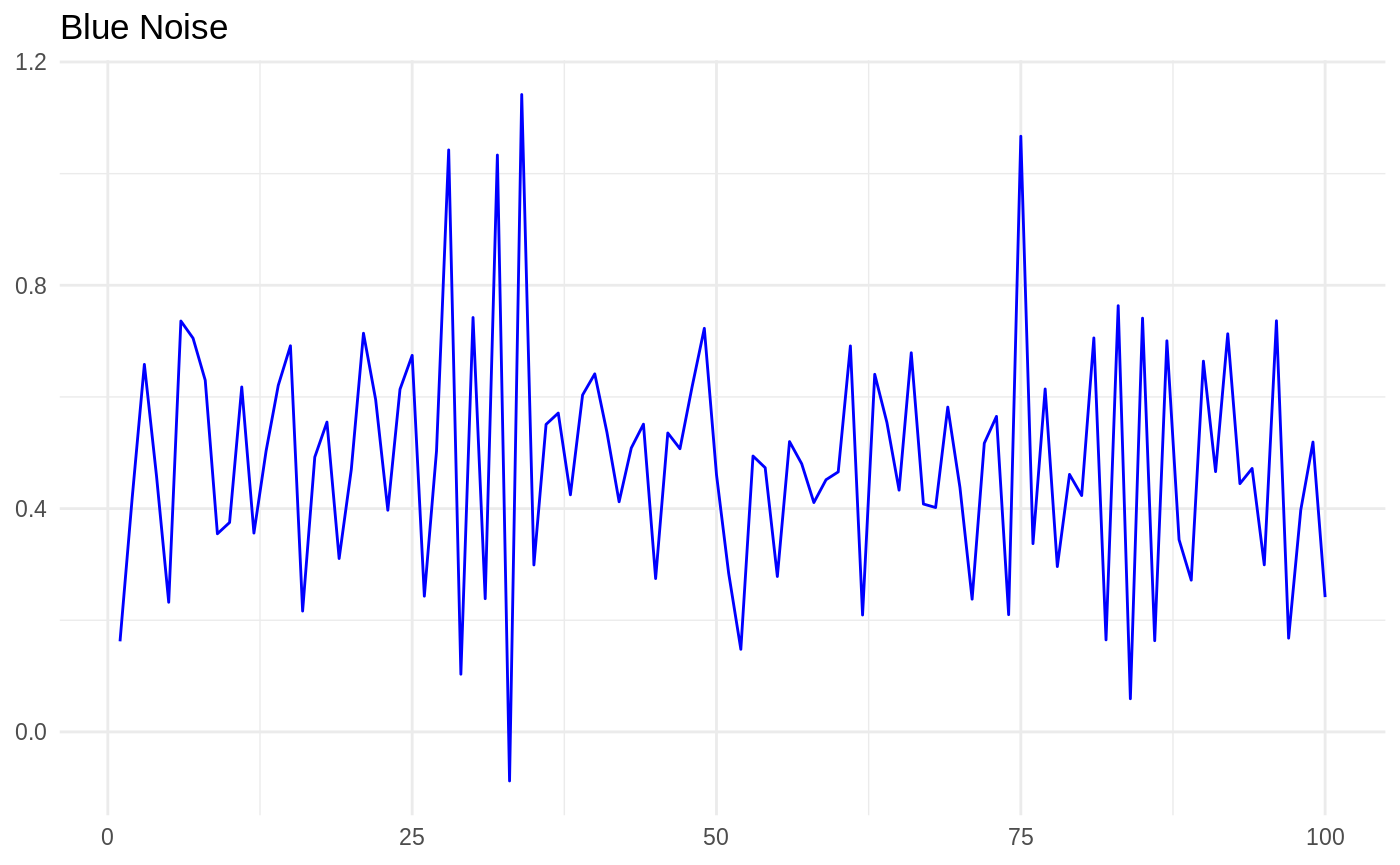
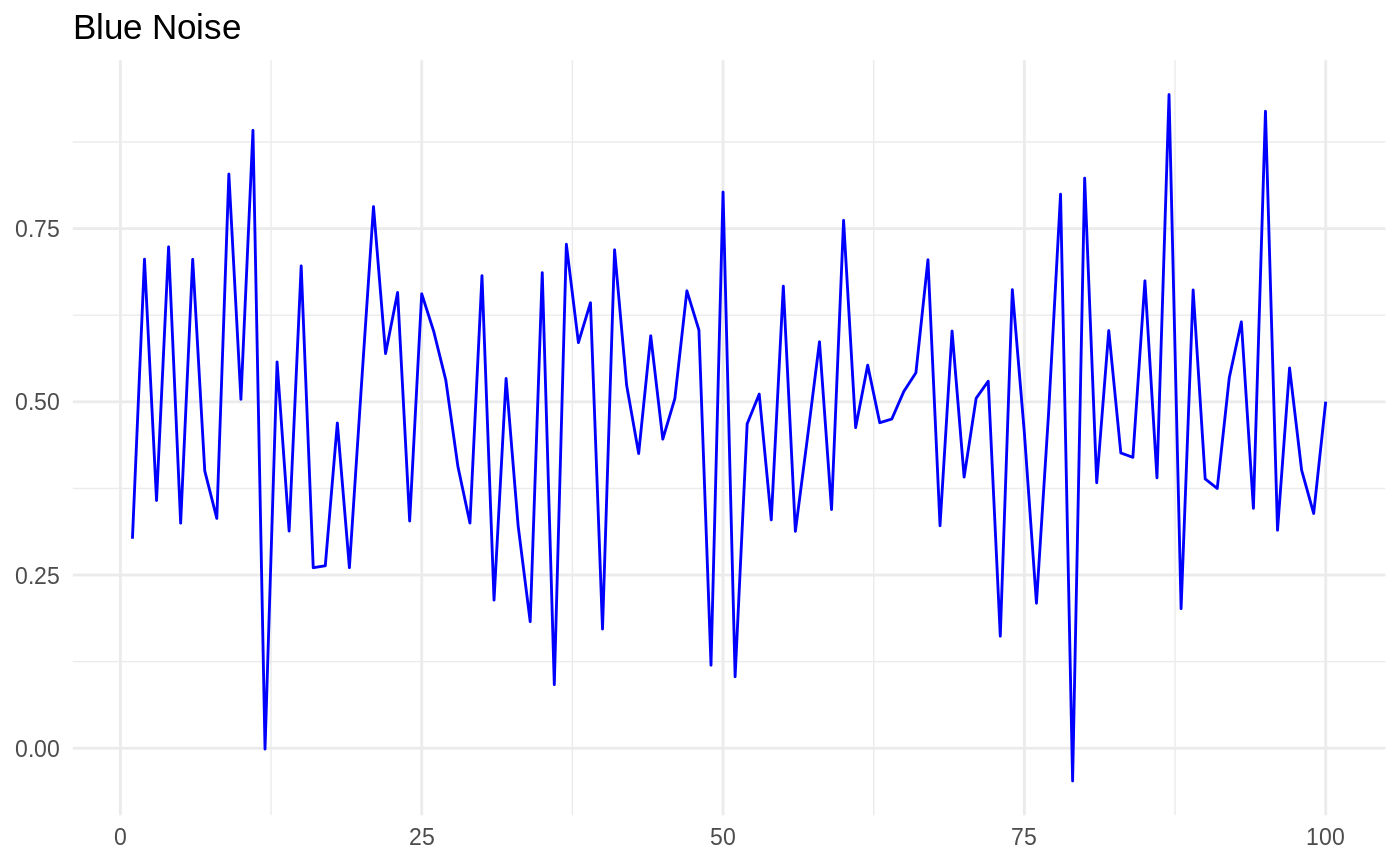
Deploy japilo/colorednoise to github.com/japilo/colorednoise.git:gh-pages

diff --git a/articles/noise.html b/articles/noise.html
@@ -111,12 +111,12 @@
 <p>To show you how you can use this package to simulate and analyze colored noise, I will present a problem for us to solve. Let’s say we want to find out whether our estimates of temporal autocorrelation are biased when the standard deviation of the colored noise is high. First, let’s use the <code>raw_noise</code> function to generate some colored noise with high variance.</p>
 <div class="sourceCode" id="cb1"><pre class="sourceCode r"><code class="sourceCode r"><a class="sourceLine" id="cb1-1" data-line-number="1">red &lt;-<span class="st"> </span><span class="kw">colored_noise</span>(<span class="dt">timesteps =</span> <span class="dv">100</span>, <span class="dt">mean =</span> <span class="fl">0.3</span>, <span class="dt">sd =</span> <span class="fl">1.2</span>, <span class="dt">phi =</span> <span class="fl">0.5</span>)</a>
 <a class="sourceLine" id="cb1-2" data-line-number="2">red[<span class="dv">1</span><span class="op">:</span><span class="dv">10</span>]</a>
-<a class="sourceLine" id="cb1-3" data-line-number="3"><span class="co">#&gt;  [1]  0.03239017  0.97023060 -0.10787798 -0.50056141 -1.50598835</span></a>
-<a class="sourceLine" id="cb1-4" data-line-number="4"><span class="co">#&gt;  [6] -2.09144653 -2.14276184  0.01233472  0.61005662  0.49265119</span></a>
+<a class="sourceLine" id="cb1-3" data-line-number="3"><span class="co">#&gt;  [1]  1.70362401  2.34694974  0.43751466  1.04745676  0.79755190</span></a>
+<a class="sourceLine" id="cb1-4" data-line-number="4"><span class="co">#&gt;  [6]  1.53525902  2.83876411 -0.08585461 -1.34069358  0.77593439</span></a>
 <a class="sourceLine" id="cb1-5" data-line-number="5">blue &lt;-<span class="st"> </span><span class="kw">colored_noise</span>(<span class="dt">timesteps =</span> <span class="dv">100</span>, <span class="dt">mean =</span> <span class="fl">0.3</span>, <span class="dt">sd =</span> <span class="fl">1.2</span>, <span class="dt">phi =</span> <span class="fl">-0.5</span>)</a>
 <a class="sourceLine" id="cb1-6" data-line-number="6">blue[<span class="dv">1</span><span class="op">:</span><span class="dv">10</span>]</a>
-<a class="sourceLine" id="cb1-7" data-line-number="7"><span class="co">#&gt;  [1]  0.52984726 -1.57399398  2.43210790 -0.98215057 -1.08602861</span></a>
-<a class="sourceLine" id="cb1-8" data-line-number="8"><span class="co">#&gt;  [6]  1.93422910 -0.13116741 -0.69285541  2.57450955  0.09079951</span></a>
+<a class="sourceLine" id="cb1-7" data-line-number="7"><span class="co">#&gt;  [1]  0.9431504  1.2805295  0.6790968 -0.3431887  0.3299262  1.6379626</span></a>
+<a class="sourceLine" id="cb1-8" data-line-number="8"><span class="co">#&gt;  [7]  1.0859915  0.2894159 -0.3926446  1.8642073</span></a>
 <a class="sourceLine" id="cb1-9" data-line-number="9"><span class="kw">ggplot</span>(<span class="dt">data =</span> <span class="ot">NULL</span>, <span class="kw">aes</span>(<span class="dt">x =</span> <span class="kw"><a href="https://rdrr.io/r/base/c.html">c</a></span>(<span class="dv">1</span><span class="op">:</span><span class="dv">100</span>), <span class="dt">y =</span> blue)) <span class="op">+</span><span class="st"> </span><span class="kw">geom_line</span>(<span class="dt">color=</span><span class="st">"blue"</span>) <span class="op">+</span><span class="st"> </span><span class="kw">theme_minimal</span>() <span class="op">+</span><span class="st"> </span><span class="kw">theme</span>(<span class="dt">axis.title =</span> <span class="kw">element_blank</span>()) <span class="op">+</span><span class="st"> </span><span class="kw">ggtitle</span>(<span class="st">"Blue Noise"</span>)</a></code></pre></div>
 <p><img src="noise_files/figure-html/generate%20noise-1.png" width="700"></p>
 <div class="sourceCode" id="cb2"><pre class="sourceCode r"><code class="sourceCode r"><a class="sourceLine" id="cb2-1" data-line-number="1"><span class="kw">ggplot</span>(<span class="dt">data =</span> <span class="ot">NULL</span>, <span class="kw">aes</span>(<span class="dt">x =</span> <span class="kw"><a href="https://rdrr.io/r/base/c.html">c</a></span>(<span class="dv">1</span><span class="op">:</span><span class="dv">100</span>), <span class="dt">y =</span> red)) <span class="op">+</span><span class="st"> </span><span class="kw">geom_line</span>(<span class="dt">color=</span><span class="st">"red"</span>) <span class="op">+</span><span class="st"> </span><span class="kw">theme_minimal</span>() <span class="op">+</span><span class="st"> </span><span class="kw">theme</span>(<span class="dt">axis.title =</span> <span class="kw">element_blank</span>()) <span class="op">+</span><span class="st"> </span><span class="kw">ggtitle</span>(<span class="st">"Red Noise"</span>)</a></code></pre></div>
@@ -124,22 +124,22 @@
 <p>The red noise and blue noise look the way they should. Now let’s estimate the mean, SD, and autocorrelation of these two sets of random numbers to see how well they match the parameters we used to generate them.</p>
 <div class="sourceCode" id="cb3"><pre class="sourceCode r"><code class="sourceCode r"><a class="sourceLine" id="cb3-1" data-line-number="1"><span class="kw">invoke_map</span>(<span class="kw"><a href="https://rdrr.io/r/base/list.html">list</a></span>(mean, sd, autocorrelation), <span class="kw"><a href="https://rdrr.io/r/base/rep.html">rep</a></span>(<span class="kw"><a href="https://rdrr.io/r/base/list.html">list</a></span>(<span class="kw"><a href="https://rdrr.io/r/base/list.html">list</a></span>(red)), <span class="dv">3</span>))</a>
 <a class="sourceLine" id="cb3-2" data-line-number="2"><span class="co">#&gt; [[1]]</span></a>
-<a class="sourceLine" id="cb3-3" data-line-number="3"><span class="co">#&gt; [1] 0.07238435</span></a>
+<a class="sourceLine" id="cb3-3" data-line-number="3"><span class="co">#&gt; [1] 0.6629121</span></a>
 <a class="sourceLine" id="cb3-4" data-line-number="4"><span class="co">#&gt; </span></a>
 <a class="sourceLine" id="cb3-5" data-line-number="5"><span class="co">#&gt; [[2]]</span></a>
-<a class="sourceLine" id="cb3-6" data-line-number="6"><span class="co">#&gt; [1] 1.112</span></a>
+<a class="sourceLine" id="cb3-6" data-line-number="6"><span class="co">#&gt; [1] 1.243193</span></a>
 <a class="sourceLine" id="cb3-7" data-line-number="7"><span class="co">#&gt; </span></a>
 <a class="sourceLine" id="cb3-8" data-line-number="8"><span class="co">#&gt; [[3]]</span></a>
-<a class="sourceLine" id="cb3-9" data-line-number="9"><span class="co">#&gt; [1] 0.5970269</span></a>
+<a class="sourceLine" id="cb3-9" data-line-number="9"><span class="co">#&gt; [1] 0.4641916</span></a>
 <a class="sourceLine" id="cb3-10" data-line-number="10"><span class="kw">invoke_map</span>(<span class="kw"><a href="https://rdrr.io/r/base/list.html">list</a></span>(mean, sd, autocorrelation), <span class="kw"><a href="https://rdrr.io/r/base/rep.html">rep</a></span>(<span class="kw"><a href="https://rdrr.io/r/base/list.html">list</a></span>(<span class="kw"><a href="https://rdrr.io/r/base/list.html">list</a></span>(blue)), <span class="dv">3</span>))</a>
 <a class="sourceLine" id="cb3-11" data-line-number="11"><span class="co">#&gt; [[1]]</span></a>
-<a class="sourceLine" id="cb3-12" data-line-number="12"><span class="co">#&gt; [1] 0.3538</span></a>
+<a class="sourceLine" id="cb3-12" data-line-number="12"><span class="co">#&gt; [1] 0.2332764</span></a>
 <a class="sourceLine" id="cb3-13" data-line-number="13"><span class="co">#&gt; </span></a>
 <a class="sourceLine" id="cb3-14" data-line-number="14"><span class="co">#&gt; [[2]]</span></a>
-<a class="sourceLine" id="cb3-15" data-line-number="15"><span class="co">#&gt; [1] 1.37038</span></a>
+<a class="sourceLine" id="cb3-15" data-line-number="15"><span class="co">#&gt; [1] 1.167243</span></a>
 <a class="sourceLine" id="cb3-16" data-line-number="16"><span class="co">#&gt; </span></a>
 <a class="sourceLine" id="cb3-17" data-line-number="17"><span class="co">#&gt; [[3]]</span></a>
-<a class="sourceLine" id="cb3-18" data-line-number="18"><span class="co">#&gt; [1] -0.5730563</span></a></code></pre></div>
+<a class="sourceLine" id="cb3-18" data-line-number="18"><span class="co">#&gt; [1] -0.4601847</span></a></code></pre></div>
 <p>The estimates for these seem to be quite accurate. But let’s try generating a whole lot of colored noise across a range of variance and color and estimating the autocorrelation of each replicate.</p>
 <div class="sourceCode" id="cb4"><pre class="sourceCode r"><code class="sourceCode r"><a class="sourceLine" id="cb4-1" data-line-number="1">raw_sims &lt;-<span class="st"> </span><span class="kw">cross_df</span>(<span class="kw"><a href="https://rdrr.io/r/base/list.html">list</a></span>(<span class="dt">timesteps =</span> <span class="dv">20</span>, <span class="dt">phi =</span> <span class="kw"><a href="https://rdrr.io/r/base/c.html">c</a></span>(<span class="op">-</span><span class="fl">0.5</span>, <span class="dv">0</span>, <span class="fl">0.5</span>), <span class="dt">mean =</span> <span class="fl">0.3</span>, <span class="dt">sd =</span> <span class="kw"><a href="https://rdrr.io/r/base/c.html">c</a></span>(<span class="fl">0.5</span>, <span class="fl">0.7</span>, <span class="fl">0.9</span>, <span class="fl">1.1</span>, <span class="fl">1.3</span>, <span class="fl">1.5</span>))) <span class="op">%&gt;%</span><span class="st"> </span><span class="kw">rerun</span>(<span class="dt">.n =</span> <span class="dv">30</span>, <span class="kw">pmap</span>(., colored_noise))</a>
 <a class="sourceLine" id="cb4-2" data-line-number="2">labels &lt;-<span class="st"> </span>raw_sims <span class="op">%&gt;%</span><span class="st"> </span><span class="kw">map</span>(<span class="dv">1</span>) <span class="op">%&gt;%</span><span class="st"> </span><span class="kw">bind_rows</span>()</a>
@@ -148,12 +148,12 @@
 <a class="sourceLine" id="cb4-5" data-line-number="5">sd_range &lt;-<span class="st"> </span><span class="kw"><a href="https://rdrr.io/r/base/cbind.html">cbind</a></span>(labels, estimates)</a>
 <a class="sourceLine" id="cb4-6" data-line-number="6"><span class="kw"><a href="https://rdrr.io/r/utils/head.html">head</a></span>(sd_range)</a>
 <a class="sourceLine" id="cb4-7" data-line-number="7"><span class="co">#&gt;   timesteps  phi mean  sd        mu     sigma autocorrelation</span></a>
-<a class="sourceLine" id="cb4-8" data-line-number="8"><span class="co">#&gt; 1        20 -0.5  0.3 0.5 0.2336027 0.5009394      -0.8351362</span></a>
-<a class="sourceLine" id="cb4-9" data-line-number="9"><span class="co">#&gt; 2        20  0.0  0.3 0.5 0.2331384 0.5357932      -0.2635706</span></a>
-<a class="sourceLine" id="cb4-10" data-line-number="10"><span class="co">#&gt; 3        20  0.5  0.3 0.5 0.2463243 0.2881149       0.6105036</span></a>
-<a class="sourceLine" id="cb4-11" data-line-number="11"><span class="co">#&gt; 4        20 -0.5  0.3 0.7 0.3224919 0.5198592      -0.4525664</span></a>
-<a class="sourceLine" id="cb4-12" data-line-number="12"><span class="co">#&gt; 5        20  0.0  0.3 0.7 0.2585378 0.7426823      -0.2331442</span></a>
-<a class="sourceLine" id="cb4-13" data-line-number="13"><span class="co">#&gt; 6        20  0.5  0.3 0.7 0.2303576 0.6268901       0.7383208</span></a></code></pre></div>
+<a class="sourceLine" id="cb4-8" data-line-number="8"><span class="co">#&gt; 1        20 -0.5  0.3 0.5 0.2281089 0.5271664     -0.44815307</span></a>
+<a class="sourceLine" id="cb4-9" data-line-number="9"><span class="co">#&gt; 2        20  0.0  0.3 0.5 0.2795650 0.5757885     -0.45937265</span></a>
+<a class="sourceLine" id="cb4-10" data-line-number="10"><span class="co">#&gt; 3        20  0.5  0.3 0.5 0.5029182 0.4342543      0.37841337</span></a>
+<a class="sourceLine" id="cb4-11" data-line-number="11"><span class="co">#&gt; 4        20 -0.5  0.3 0.7 0.3611820 0.4848390     -0.02416496</span></a>
+<a class="sourceLine" id="cb4-12" data-line-number="12"><span class="co">#&gt; 5        20  0.0  0.3 0.7 0.1010648 0.7357687      0.01916940</span></a>
+<a class="sourceLine" id="cb4-13" data-line-number="13"><span class="co">#&gt; 6        20  0.5  0.3 0.7 0.4711500 0.6945101      0.60622514</span></a></code></pre></div>
 <p>We can visualize these results by finding the mean and confidence intervals of the autocorrelation estimates for each combination of variance and noise color, and plotting them out.</p>
 <div class="sourceCode" id="cb5"><pre class="sourceCode r"><code class="sourceCode r"><a class="sourceLine" id="cb5-1" data-line-number="1">sd_range <span class="op">%&gt;%</span><span class="st"> </span><span class="kw">group_by</span>(phi, sd) <span class="op">%&gt;%</span><span class="st"> </span><span class="kw">summarize_at</span>(<span class="kw">funs</span>(<span class="dt">lower.ci =</span> ((<span class="cf">function</span>(bar){<span class="kw"><a href="https://rdrr.io/r/stats/quantile.html">quantile</a></span>(bar, <span class="dt">probs=</span><span class="kw"><a href="https://rdrr.io/r/base/c.html">c</a></span>(<span class="fl">0.05</span>, <span class="fl">0.95</span>))[[<span class="dv">1</span>]]})(.)),</a>
 <a class="sourceLine" id="cb5-2" data-line-number="2">           <span class="dt">upper.ci =</span> ((<span class="cf">function</span>(bar){<span class="kw"><a href="https://rdrr.io/r/stats/quantile.html">quantile</a></span>(bar, <span class="dt">probs=</span><span class="kw"><a href="https://rdrr.io/r/base/c.html">c</a></span>(<span class="fl">0.05</span>, <span class="fl">0.95</span>))[[<span class="dv">2</span>]]})(.)),</a>
